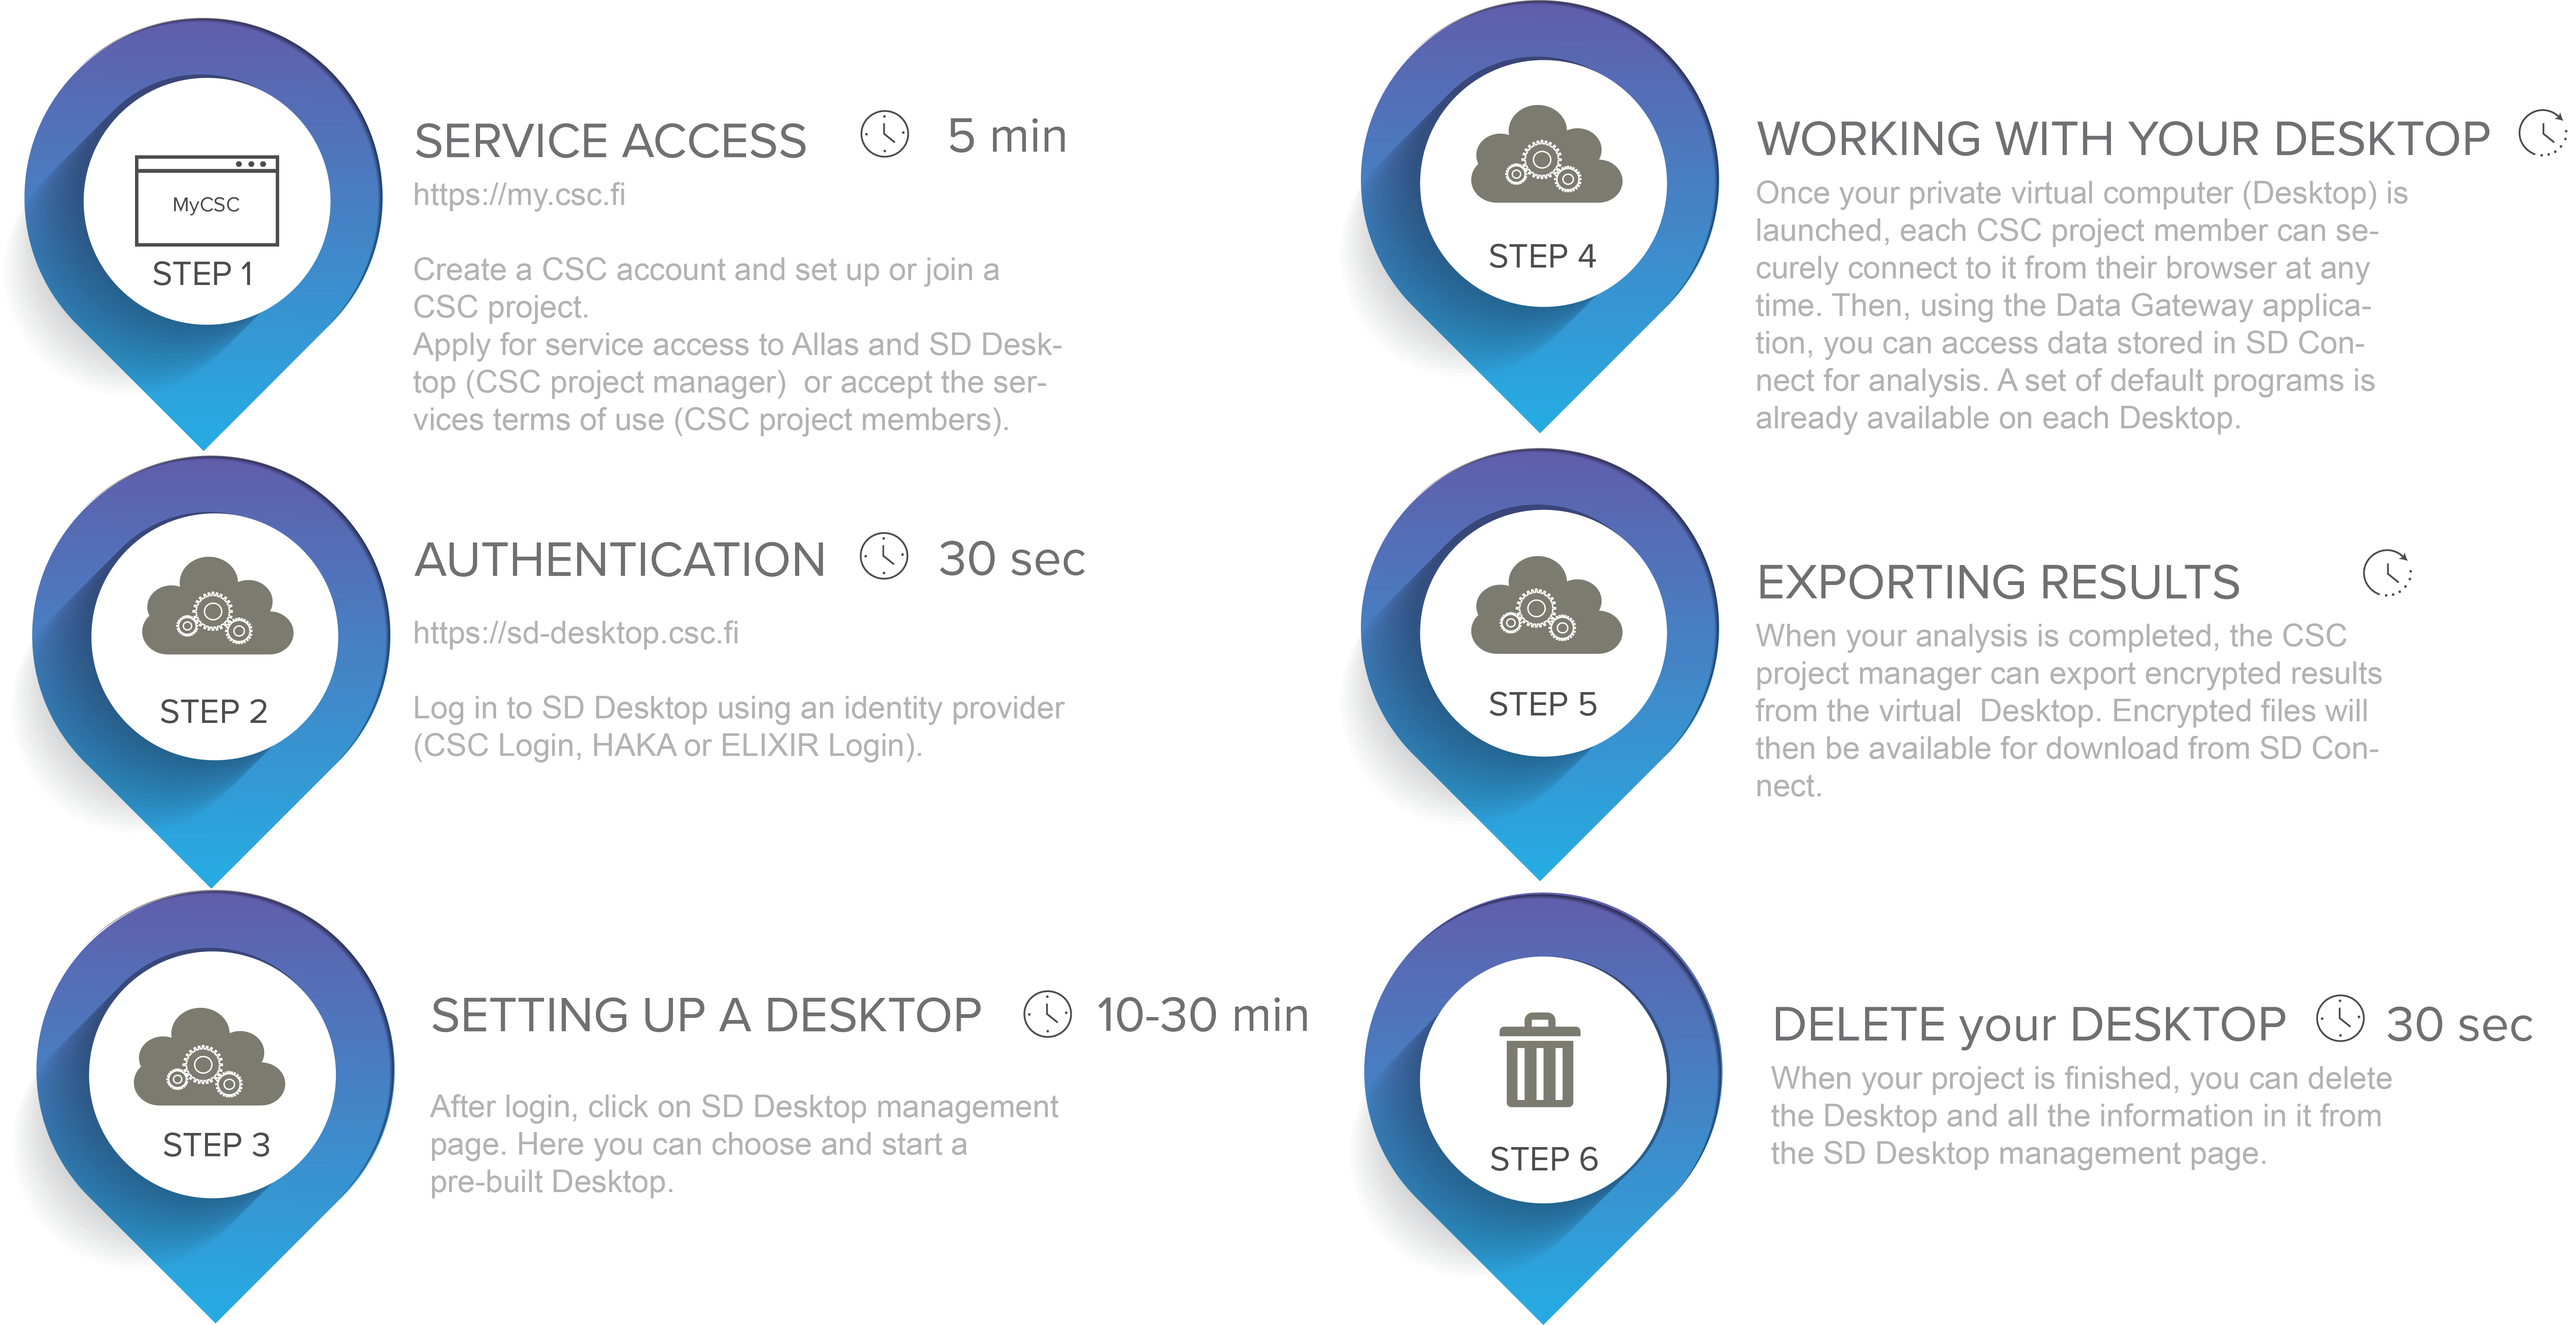
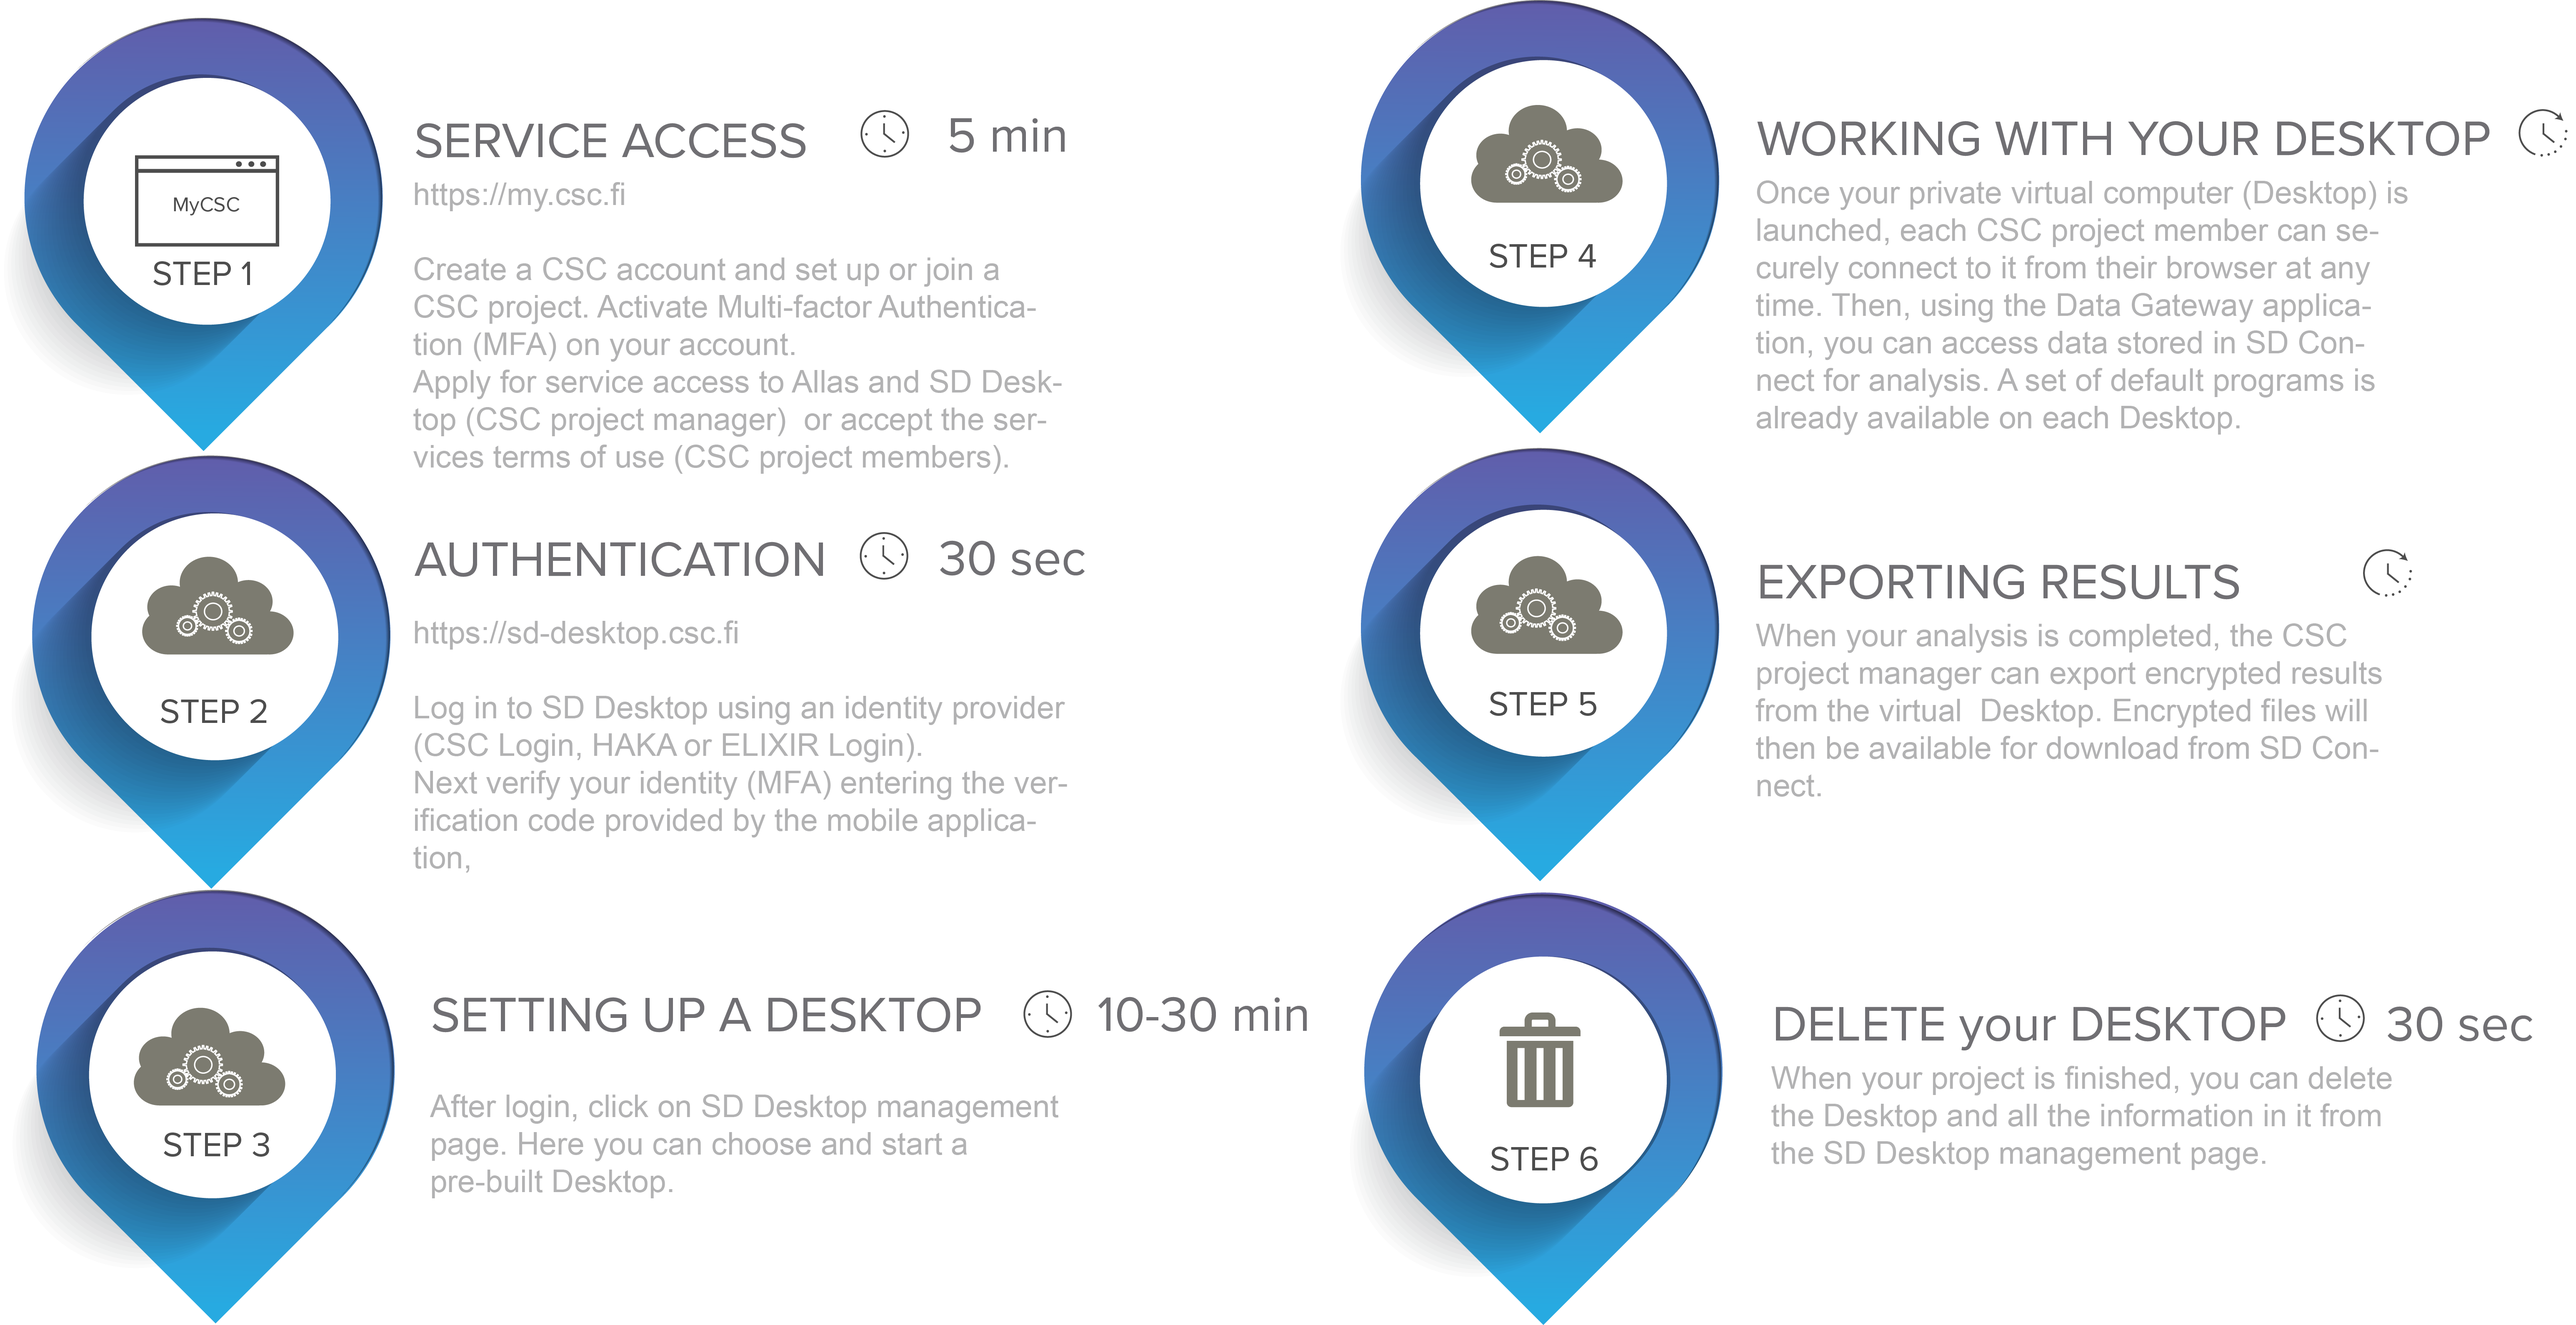
Fm april update (#1259)
* Update intro.md

* Update index.md

* Update index.md

* Update index.md

* Update sd_desktop.md

* Update sd_desktop.md

* Update sd_desktop.md

* Add files via upload

* Update sd_desktop.md

* Update index.md

* Update index.md

* Update intro.md

* Update index.md

* Update intro.md

* Update intro.md

* Update sd_desktop.md

* Delete desktop-overview.png

* Delete desktop-3.png

* Add files via upload

* Add files via upload

* Update sd_desktop.md

* Update intro.md

* Update sd_desktop.md

* Update sd_desktop.md

* Update data-new.md

adding MFA

* Update data-new.md

* Update sensitive-data-desktop.md

Changed region(s): [[0.1561, 0.2179, 0.4059, 0.3736], [0.1561, 0.5915, 0.4059, 0.6538]]

diff --git a/docs/data/sensitive-data/intro.md b/docs/data/sensitive-data/intro.md
@@ -2,9 +2,28 @@
 # Sensitive Data services for research
 
 
-## Introduction
+## Introduction to the user guide
 
-Introduction 
+In this userguide you can:
+
+* find an overview and **key features** of each service;
+
+* follow **simplified, step-by-step** instructions on how to access and set up the services;  previous knowledge is not required. Specific paragraphs are marked as *advanced* if technical and coding skills are necessary. 
+
+* watch **1 to 3 minutes video** tutorials that will support you through each step;
+
+* find quick technical suggestions in the **troubleshooting table**.
+
+
+For general information, see:
+[Sensitive Data services webpage](https://research.csc.fi/sensitive-data-services-for-research), general [FAQs](../../support/faq/index.md#sensitive-data-services-for-research), services descriptions in [CSC's service catalog](https://research.csc.fi/service-catalog).
+
+
+
+
+## Introduction to the services
+
+
 Sensitive Data services for research provide CSC customers a secure workspace, accessible via web browser, that can be used for processing sensitive data according to CSC policies and [general terms of use](https://research.csc.fi/general-terms-of-use).
 
 Sensitive Data services for research consists of four components, all accessible from your browser:
@@ -30,7 +49,7 @@ To facilitate this process, when you create a new CSC project using the MyCSC po
 In case you need to draft a **Data Protection Impact Assessment (DPIA)**, you can find the technical and organizational security measures for the protection of
 sensitive data in CSC Sensitive Data service available for download [here](./technical-organisational-sec-measures.pdf).
 
-
+<iframe width="280" height="155"srcdoc="https://www.youtube.com/embed/1LHpDiap5Lo" frameborder="0" allow="accelerometer; autoplay; encrypted-media; gyroscope; picture-in-picture" allowfullscreen></iframe>
 
 ## Getting access
 
@@ -43,8 +62,10 @@ Sensitive Data Services are available for all CSC customers. To access CSC's ser
    4. Fill in the **Description of processing activities form** and agree with CSC **Data Processing Agreement**.
     
    5. **Each project member** needs to **add service access to SD Desktop and to Allas** (in case you want to use SD Connect, a user interface for CSC cloud storage solution called Allas).
+   
+   6. Activate Multi-factor Authentication.
 
-   6. Apply for billing units or disk quota.
+   7. Apply for billing units or disk quota.
 
 For specific guidance regarding these steps, check the [Accounts](../../accounts/index.md) paragraph at the beginning of this user guide.
 
@@ -62,6 +83,8 @@ For specific guidance regarding these steps, check the [Accounts](../../accounts
 **Disk quota**: this is a limited set to control the storage space available to CSC services users. SD Connect has a default quota of 10 TB. You can apply for more writing at servicedesk@csc.fi. 
 
 **Data Processing Agreement (DPA)**: a data processing agreement (DPA) is a contract between the Data Controller and the Data Processor. It regulates the particularities of data processing – such as its scope and purpose – as well as the relationship between the controller and the processor: [CSC General terms of use](https://research.csc.fi/general-terms-of-use) and [CSC Data Processing Agreement](https://research.csc.fi/data-processing-agreement).
+
+**Multi-factor Authentication**: When you log in to the SD Desktop service, next to authenticating by providing a username and password, you need to go through an extra verification step. In this way, your account is more secure. The extra verification step is called:"Two-Step Verification" or "Multifactor Authentication", because you are proving your identity via a different method. In this case, you need to type in a one time code (6-digits) obtaned by opening a mobile app on your phone. The code is unique and valid for a limited amount of time. 
 
 **Object**: is the technical name for a file stored in a cloud object storage like Allas (or uploaded to CSC via SD Connect). This definition underlines that files stored in SD Connect /  Allas can not be directly modified unless transferred or copied into a computing environment. Still, they can be accessed in read-only mode from a cloud computing environment (e.g. SD Desktop). 
 

diff --git a/docs/data/sensitive-data/sd_desktop.md b/docs/data/sensitive-data/sd_desktop.md
@@ -42,12 +42,13 @@ In the following user guide, you can learn how to:
 
 ## Service access 
 
-Access to SD Desktop is based on CSC user accounts and projects. If you don't have CSC account and project you need to:
+Access to SD Desktop is based on CSC user accounts and projects. If you don't have CSC account and project, using the (My CSC portal)[https://my.csc.fi] you need to:
 
 * set up [a CSC account](../../accounts/how-to-create-new-user-account.md);
 * [join](../../accounts/how-to-add-members-to-project.md) or set up [a CSC project](../../accounts/how-to-create-new-project.md);
 * fill in the [description of data processing activities](../../accounts/when-your-project-handles-personal-data.md) form;
-* add [service access to Allas and SD Desktop](../../accounts/how-to-add-service-access-for-project.md).
+* add [service access to Allas and SD Desktop](../../accounts/how-to-add-service-access-for-project.md);
+* **activate the additional security verification (or Multi-factor Authentication) on your account scanning the QR code with a specific application** (e.g. Google Authenticator). For further intruction see the [MFA paragraph](../../accounts/mfa.md), under the Account section on the CSC user guide.
 
 For specific guidance regarding these steps or applying for resources for your CSC project (e.g, billing units or disk quota), check the [Accounts](../../accounts/index.md) paragraph at the beginning of this user guide. Note that you always need to use your CSC username and password when you access data stored in SD Connect from yoru virtual Desktop. If you don't remember your CSC password, you can [reset it](../../accounts/how-to-change-password.md).  
 
@@ -55,11 +56,20 @@ For specific guidance regarding these steps or applying for resources for your C
 
 <iframe width="280" height="155"srcdoc="https://www.youtube.com/embed/VebHTUonOSs" frameborder="0" allow="accelerometer; autoplay; encrypted-media; gyroscope; picture-in-picture" allowfullscreen></iframe>
 
-Login to SD Desktop is possible with identity federation systems (Haka, Virtu and [Elixir Login](https://elixir-europe.org/register) or with CSC Login at:
+Login to SD Desktop is possible with identity federation systems (Haka, Virtu or with CSC Login) at:
 
 [**https://sd-desktop.csc.fi**](https://sd-desktop.csc.fi)
 
 from any modern web-browser.
+
+After entering your username and passworod, you need to  **verify your identity** (or Multi factor Authentication, MFA) by entering the verification **code** provided via mobile application. For specific guidance regarding the MFA activation on your CSC account, see the [MFA paragraph](../../accounts/mfa.md).
+
+![Authentication](images/desktop/authentication.png)
+
+
+!!! Note:
+    Login via Elixir or Life Science is currently not available. We are working to re-enable it as soon as possible. 
+
 
 
 ### Setting up a virtual Desktop

diff --git a/docs/support/wn/data-new.md b/docs/support/wn/data-new.md
@@ -1,11 +1,11 @@
 
 # Data Management
 
-## Sensitive Data services for research 30.3.2022
+## Sensitive Data services for research 28.04.2022
 
 Our Sensitive Data services guide has been updated and reorganised into the following sections:
 
-* [Introduction to the services and legal agreements](../../data/sensitive-data/intro.md#introduction);
+* [Introduction to the services and legal agreements](../../data/sensitive-data/intro.md);
 
 * [Sensitive Data Connect](../../data/sensitive-data/sd_connect.md#), with a specific paragraph describing [data encryption compatible with Sensitive Data services](../../data/sensitive-data/sd_connect.md#introduction-to-data-encryption-compatible-with-sensitive-data-services);
 
@@ -13,11 +13,12 @@ Our Sensitive Data services guide has been updated and reorganised into the foll
 
 * [general FAQs about the services](../../support/faq/index.md#sensitive-data-services-for-research).
 
-During the last service break, we also enabled new features:
+New features enabled on Sensitive Data Services (28.04.2022):
 
-* [**automated encryption**](../../data/sensitive-data/sd_connect.md#sensitive-data-encryption-and-upload-less-than-100-gb) during data upload via SD Connect (user interface, less than 100 GB);
+* **Multi-factor Authentication (MFA) on SD Desktop**: login to SD Desktop now requires an extra verification step. Next to autheticating with username and pawssword you also need to type in a 6-digit verification code provided via mobile application. To activate MFA on your CSC account see  [Multi-factor authentication paragraph in the Account section of this user guide](../../accounts/mfa.md).
 
-* [**authorised data export**](../../data/sensitive-data/sd_desktop.md#data-export-from-sd-desktop) from SD Desktop using the airlock client.
+* [**authorised data export**](../../data/sensitive-data/sd_desktop.md#data-export-from-sd-desktop) from SD Desktop using the airlock client;
+
 
 
 

diff --git a/docs/data/sensitive-data/index.md b/docs/data/sensitive-data/index.md
@@ -1,26 +1,14 @@
 # Sensitive Data Services for research: user guide
 
-This guide, in CSC Docs, introduces CSC's Sensitive Data services. To navigate the CSC user guide, click on the topics on the left-hand side of the navigation bar or use the search functionality. Below you can:
-
-* find an overview and **key features** of each service;
-
-* follow **simplified, step-by-step** instructions on how to access and set up the services;  previous knowledge is not required. Specific paragraphs are marked as *advanced* if technical and coding skills are necessary. 
-
-* watch **1 to 3 minutes video** tutorials that will support you through each step;
-
-* find quick technical suggestions in the **troubleshooting table**.
-
-
-For general information, see:
-[Sensitive Data services webpage](https://research.csc.fi/sensitive-data-services-for-research), general [FAQs](../../support/faq/index.md#sensitive-data-services-for-research), services descriptions in [CSC's service catalog](https://research.csc.fi/service-catalog).
-
+This guide, in CSC Docs, introduces CSC's Sensitive Data services. To navigate the CSC user guide, click on the topics on the left-hand side of the navigation bar or use the search functionality. Below you can find on overview of the contents related to the Sensitive Data Services.
 
 !!! Note
     **Do you have any questions? Would you like to discuss a specific project?** Don't hesitate to contact us at servicedesk@csc.fi (subject: Sensitive Data). Our team is here to help.
 
 
 ## [Introduction](./intro.md)
-
+  * [**Introduction to the user guide**](./intro.md#introduction-to-the-user-guide)
+  * [**Introduction to the services**](./intro.md#introduction-to-the-services)
   * [**Legal agreements**](./intro.md#legal-agreements)
   * [**Getting access**](./intro.md#getting-access)
   * [**Useful terminology**](./intro.md#getting-access)

diff --git a/docs/support/faq/sensitive-data-desktop.md b/docs/support/faq/sensitive-data-desktop.md
@@ -34,7 +34,9 @@ Any type: text, video, audio, images, genetic data, questionnaires.
 
 ## What software is available on SD Desktop?
 
-We currently provide only Linux Centos computing environments with a limited amount of open-source software installed, including Libre Office (with LibreOffice Calc, a spreadsheet program similar to Microsoft Excel, and LibreOffice Writer,  a word processor similar to Microsoft Word). We are not providing proprietary software, but we could help you install on your private Desktop an open-source version. Don't hesitate to get in touch with us at servicedesk@csc.fi.
+We currently provide only Linux Centos computing environments with a limited amount of open-source software installed, including Libre Office (with LibreOffice Calc, a spreadsheet program similar to Microsoft Excel, and LibreOffice Writer,  a word processor similar to Microsoft Word), R Stutio and Python. We are not providing proprietary software, but we could help you install on your private Desktop an open-source version. 
+For further information see: [Default programs available on SD Desktop](../../data/sensitive-data/sd_desktop.md#default-programs-available-on-sd-desktop) and [Software customisation](../../data/sensitive-data/sd_desktop.md#software-customisation).
+Don't hesitate to get in touch with us at servicedesk@csc.fi for specific techincal support.
 
 ## Who can access my private computing environment in SD Desktop?
 Only your CSC project members can directly access the private Desktop. Furthermore, as the computing environment is isolated from the Internet, no one can export files from SD Desktop without CSC project manager approval. 
